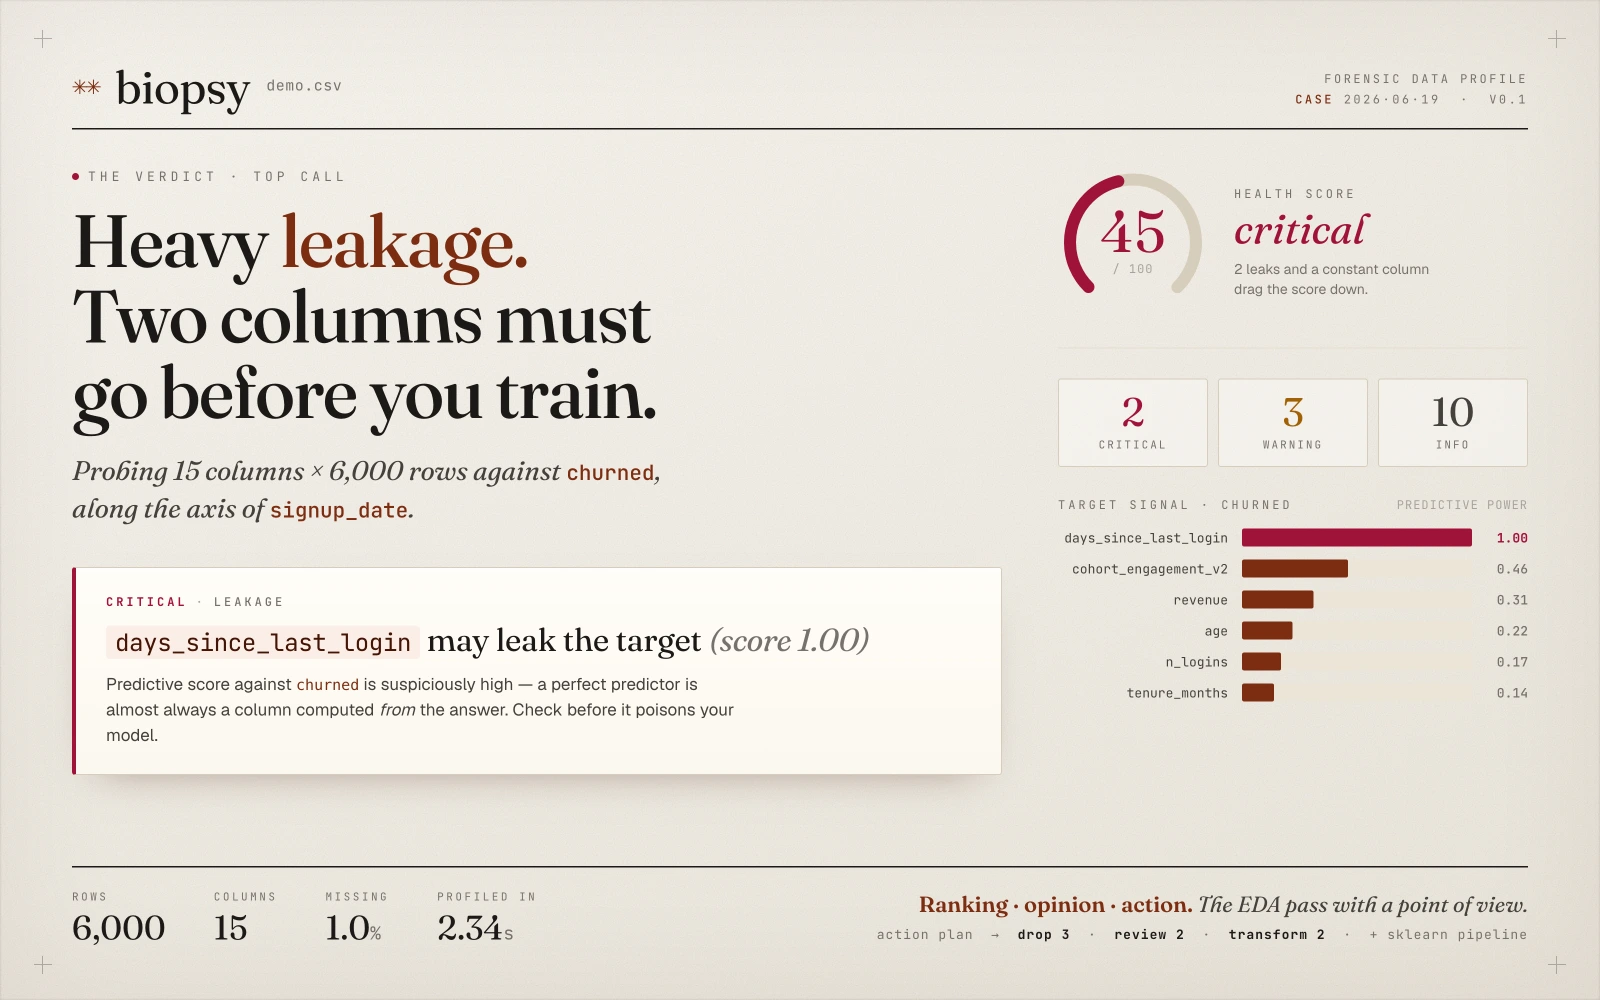
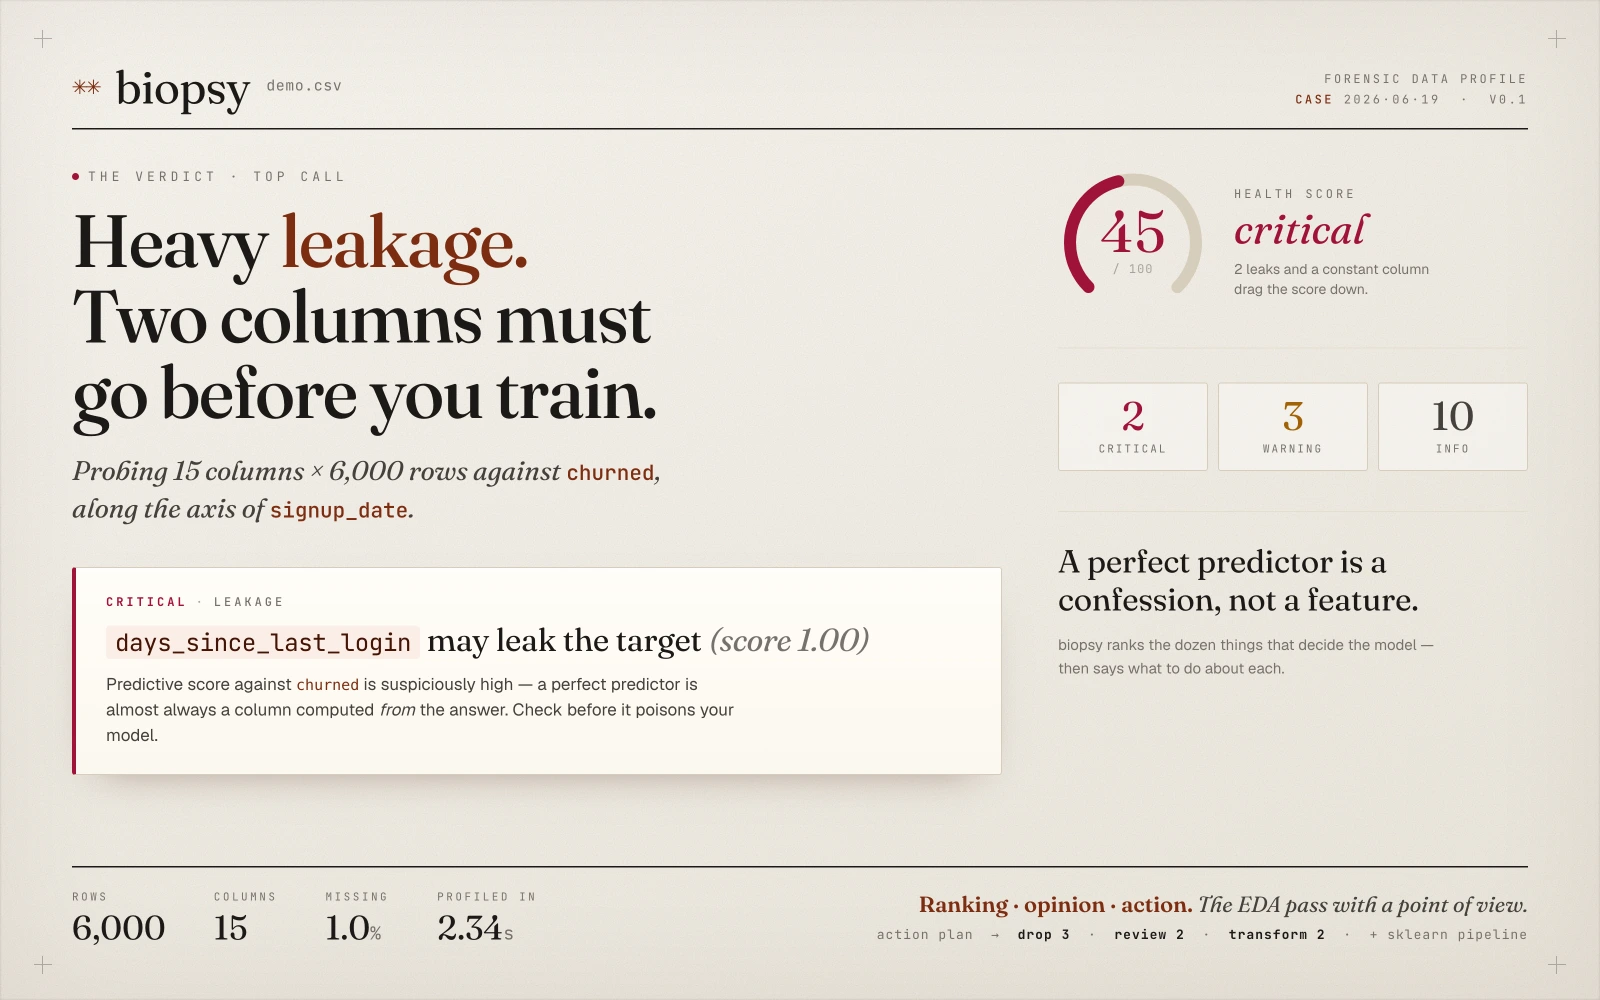
docs(readme): drop target-signal chart from hero card

diff --git a/assets/hero.html b/assets/hero.html
@@ -85,7 +85,11 @@
   .finding .desc{font-size:17px; color:var(--ink2); line-height:1.5; margin-top:14px; max-width:640px;}
 
   /* ---- right rail ---- */
-  .rail{display:flex; flex-direction:column; gap:30px;}
+  .rail{display:flex; flex-direction:column; gap:34px;}
+
+  .aside-note{margin-top:6px; padding-top:30px; border-top:1px solid var(--line);}
+  .aside-note p{font-family:var(--serif); font-size:32px; line-height:1.18; color:var(--ink); letter-spacing:-.2px;}
+  .aside-note span{display:block; font-size:15px; line-height:1.55; color:var(--ink3); margin-top:16px; max-width:400px;}
 
   .score{display:flex; align-items:center; gap:26px; padding-bottom:30px; border-bottom:1px solid var(--line);}
   .gauge{position:relative; width:150px; height:150px; flex:none;}
@@ -181,14 +185,9 @@
           <div class="pill info"><div class="n">10</div><div class="k">info</div></div>
         </div>
 
-        <div class="signal">
-          <div class="cap">Target signal · churned <span>predictive power</span></div>
-          <div class="row leak"><div class="name">days_since_last_login</div><div class="track"><div class="bar" style="width:100%"></div></div><div class="pct">1.00</div></div>
-          <div class="row"><div class="name">cohort_engagement_v2</div><div class="track"><div class="bar" style="width:46%"></div></div><div class="pct">0.46</div></div>
-          <div class="row"><div class="name">revenue</div><div class="track"><div class="bar" style="width:31%"></div></div><div class="pct">0.31</div></div>
-          <div class="row"><div class="name">age</div><div class="track"><div class="bar" style="width:22%"></div></div><div class="pct">0.22</div></div>
-          <div class="row"><div class="name">n_logins</div><div class="track"><div class="bar" style="width:17%"></div></div><div class="pct">0.17</div></div>
-          <div class="row"><div class="name">tenure_months</div><div class="track"><div class="bar" style="width:14%"></div></div><div class="pct">0.14</div></div>
+        <div class="aside-note">
+          <p>A perfect predictor is a confession, not a feature.</p>
+          <span>biopsy ranks the dozen things that decide the model — then says what to do about each.</span>
         </div>
       </aside>
     </main>